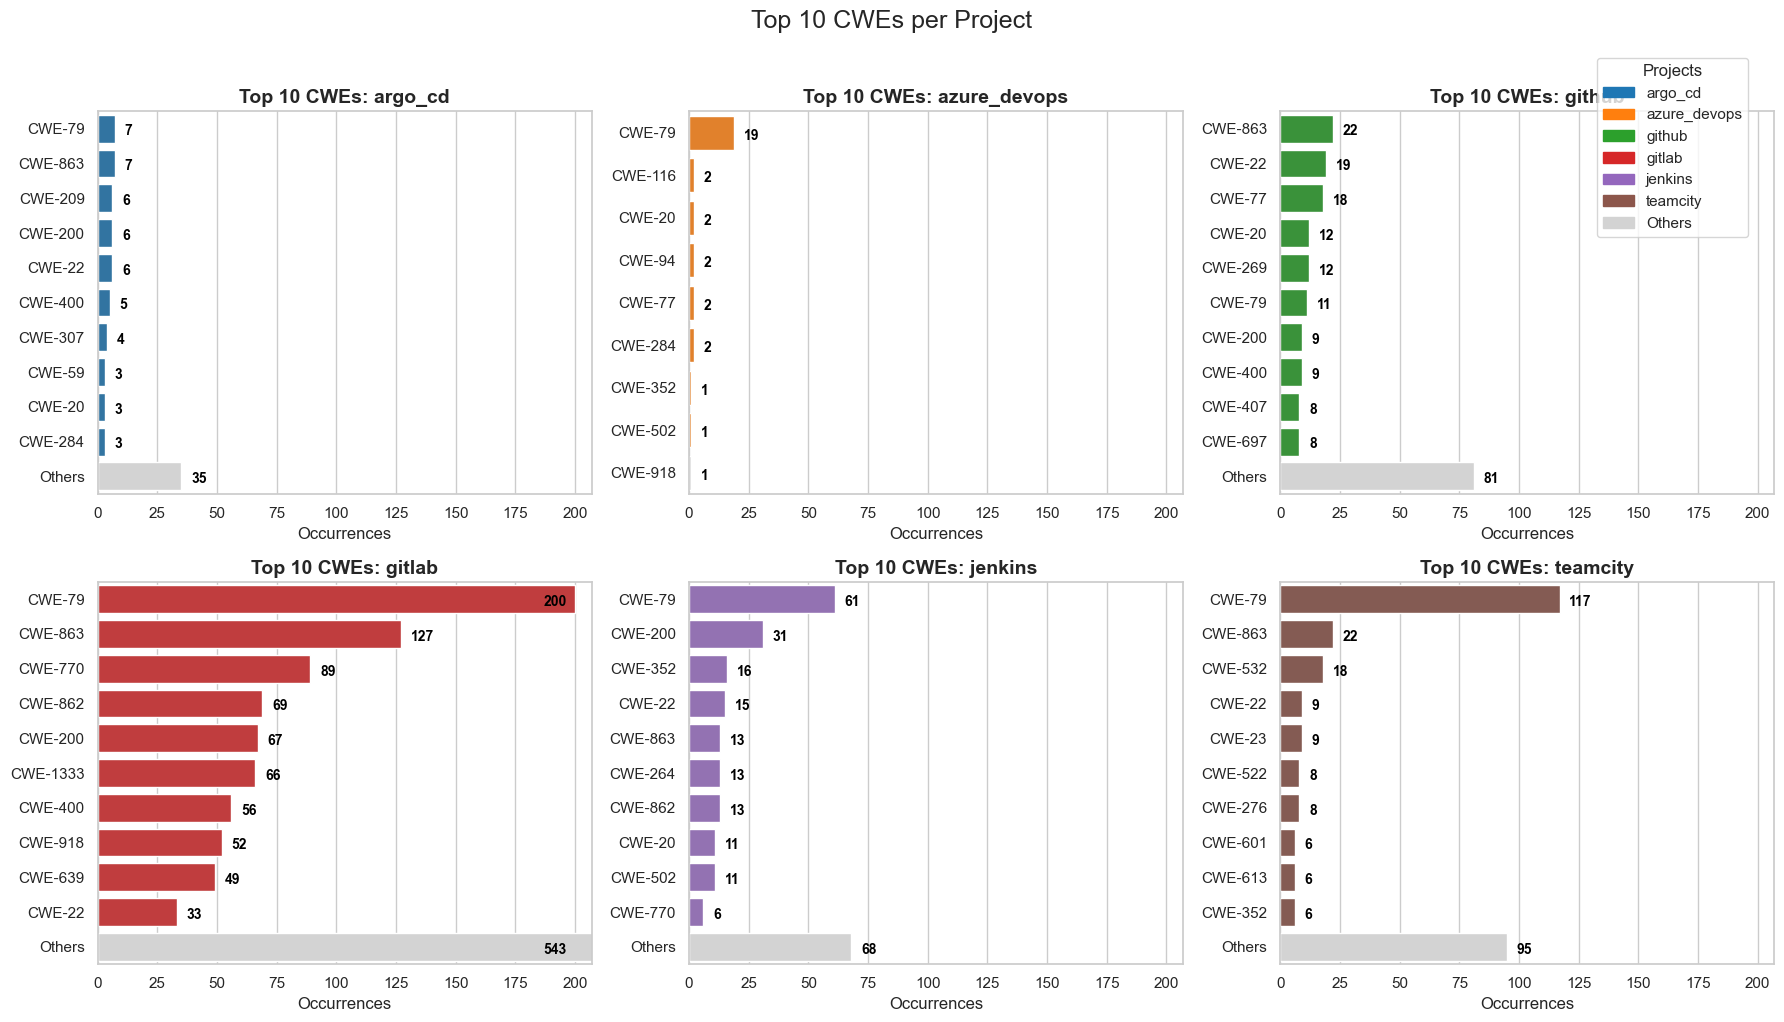
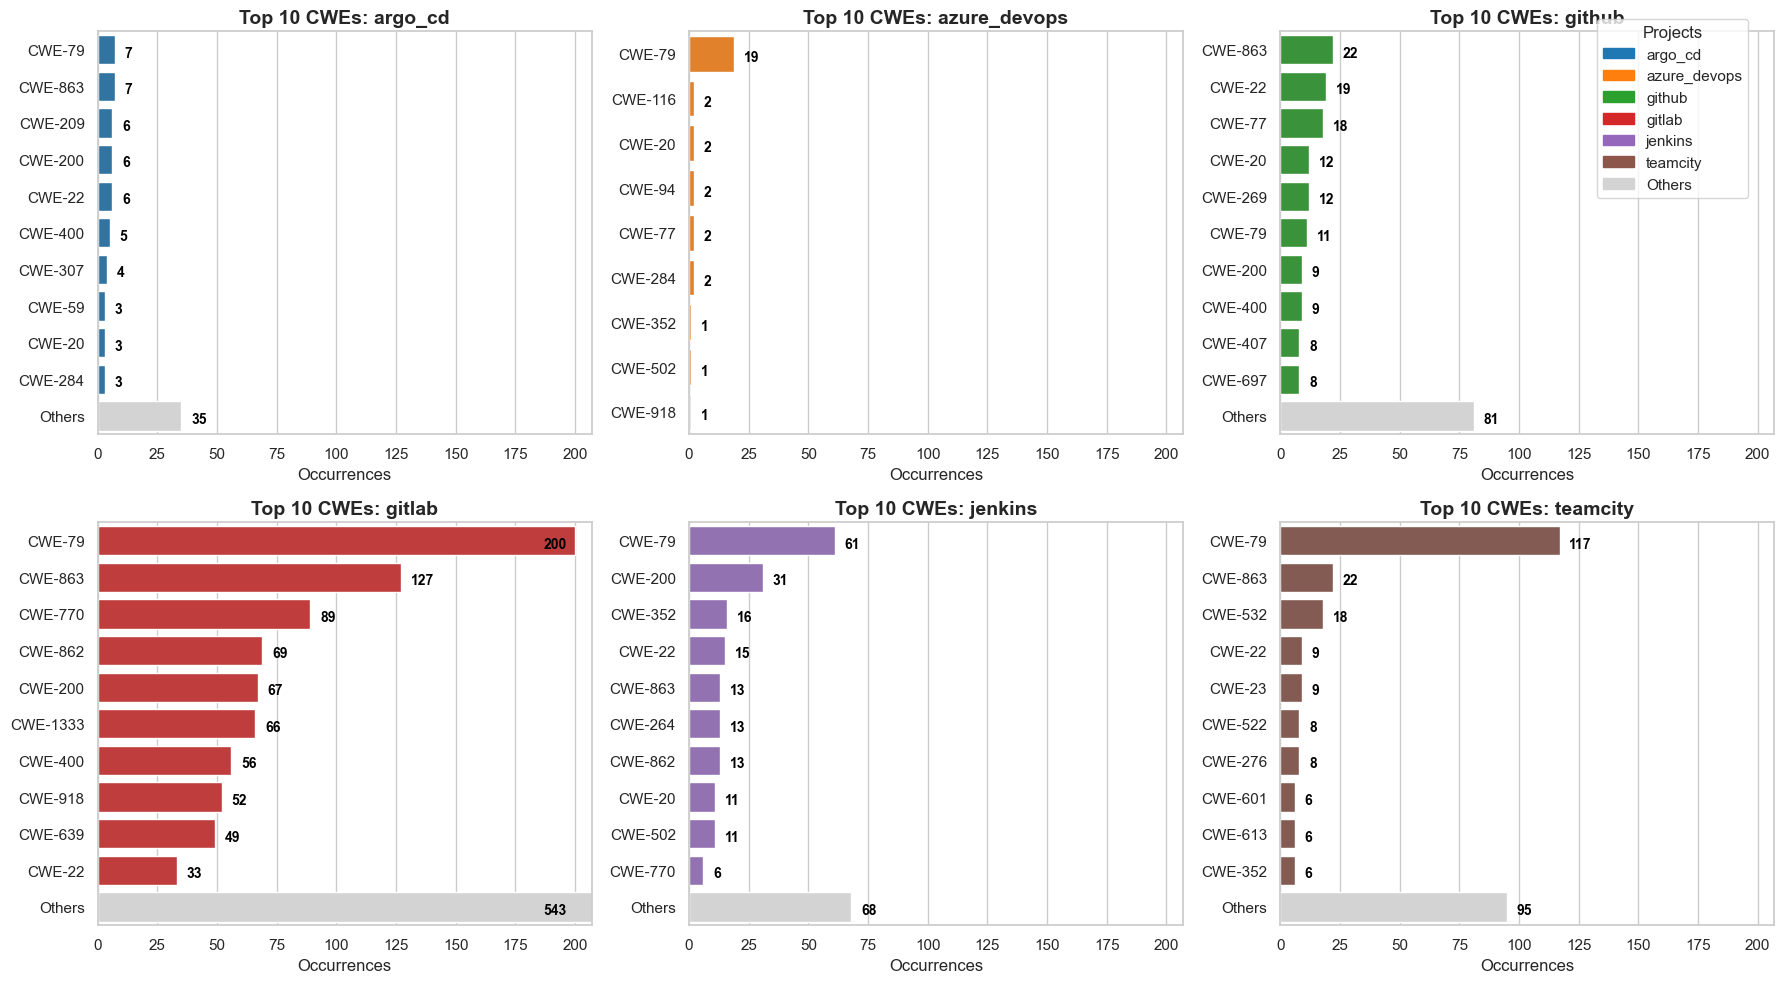
added bitbucket

diff --git a/fetch_csv.py b/fetch_csv.py
@@ -15,18 +15,14 @@ logging.basicConfig(level=logging.INFO, format="%(levelname)s: %(message)s")
 # ── Constants ──────────────────────────────────────────────────────────────────
 API_URL          = os.getenv("API_URL", "")
 API_KEY          = os.getenv("API_KEY", "")
-KEYWORD_SEARCH   = "github"
+KEYWORD_SEARCH   = "codestar"
 RESULTS_PER_PAGE = 2000
-OUTPUT_FILE      = "github_v2.csv"
+OUTPUT_FILE      = "data/datasets/cves_full_codestar.csv"
 CPES = [
-    "cpe:2.3:a:github:enterprise_server",
-    "cpe:2.3:a:github:actions",
-    "cpe:2.3:a:github:cli",
-    "cpe:2.3:a:github:github",
+    "cpe:2.3:a:atlassian:bitbucket",
 ]
 LIST_FIELDS: list[str] = ["descriptions", "weaknesses", "configurations", "references", "cveTags"]
 DICT_FIELDS: list[str] = ["metrics"]
-
 
 def extract_data(vuln: dict[str, Any]) -> dict[str, Any]:
     """Flatten one raw vulnerability (JSON) entry into a CSV-friendly dict."""

diff --git a/data/data analysis/cwe_analysis/extract_data_from_cwe.py b/data/data analysis/cwe_analysis/extract_data_from_cwe.py
@@ -267,7 +267,6 @@ def generate_top_10_chart_from_files(files_list, projects_list):
     handles.append(plt.Rectangle((0, 0), 1, 1, color="lightgray", label="Others"))
 
     fig.legend(handles=handles, title="Projects", loc="upper right", bbox_to_anchor=(0.98, 0.98))
-    plt.suptitle("Top 10 CWEs per Project", fontsize=18, y=1.02)
 
     plt.tight_layout()
 
@@ -466,12 +465,12 @@ def main():
         "travis_ci"
     ]
     
-    #generate_top_10_chart_from_files(files, projects)
+    generate_top_10_chart_from_files(files, projects)
 
     #generate_temporal_and_category_charts(files, projects)
 
-    multi_cves = get_cves_with_multiple_cwes(files, projects)
-    multi_cves.to_csv("data/data analysis/more_than_one_cwe.csv", index=False, encoding="utf-8")
+    #multi_cves = get_cves_with_multiple_cwes(files, projects)
+    #multi_cves.to_csv("data/data analysis/more_than_one_cwe.csv", index=False, encoding="utf-8")
 
 if __name__ == "__main__":
     main()
